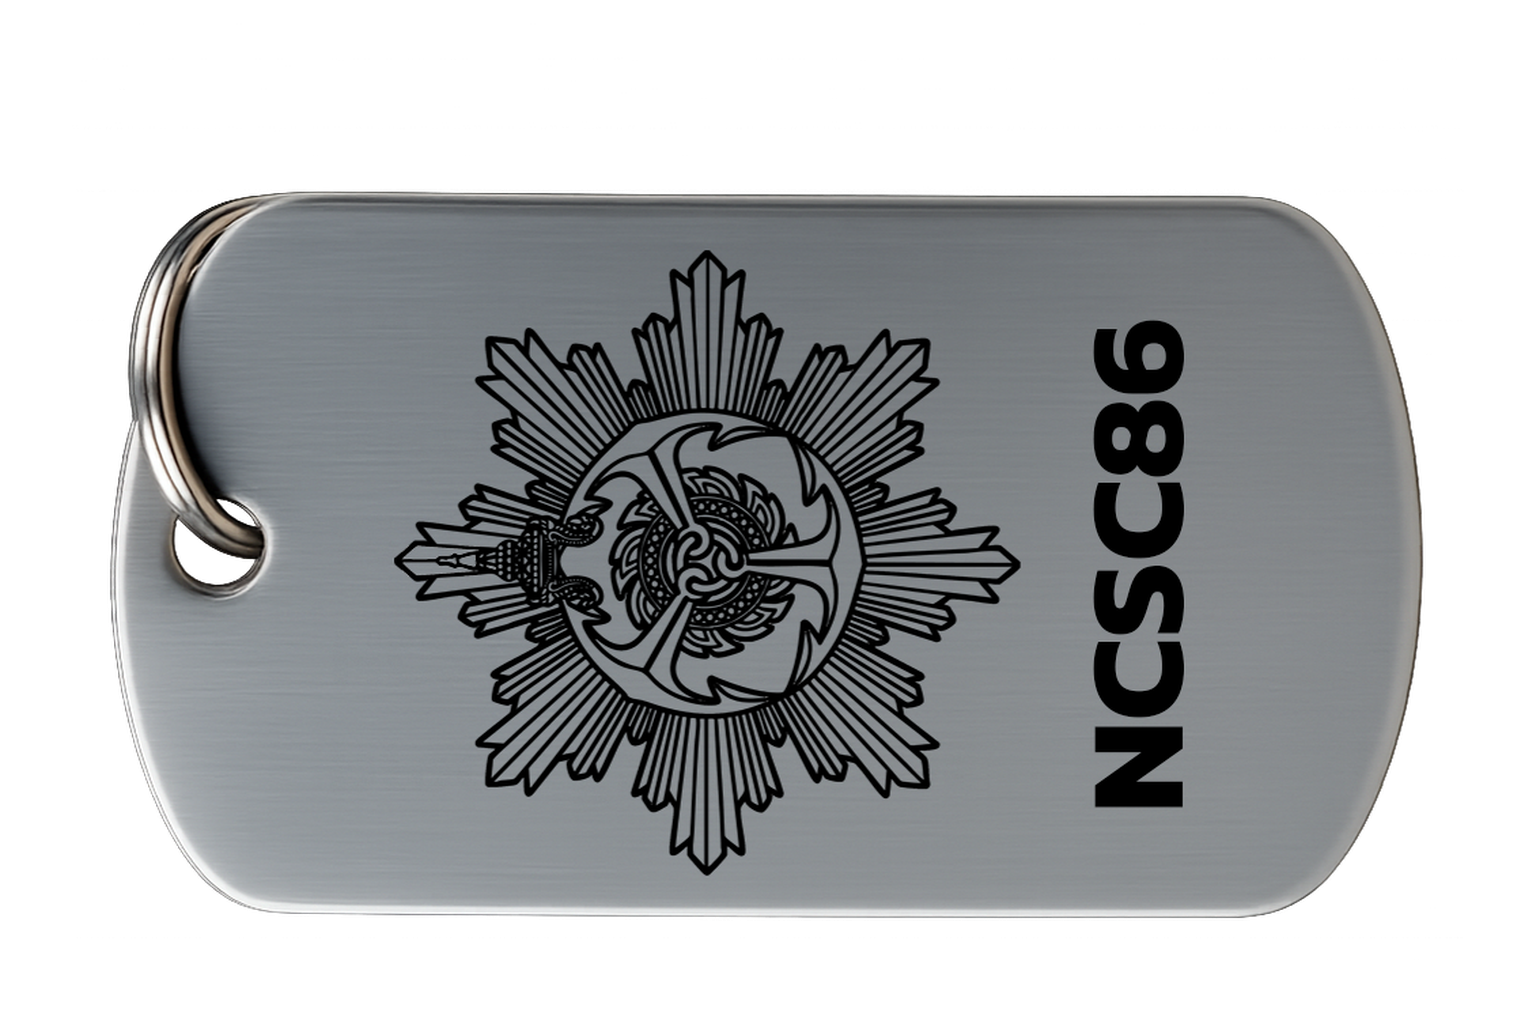
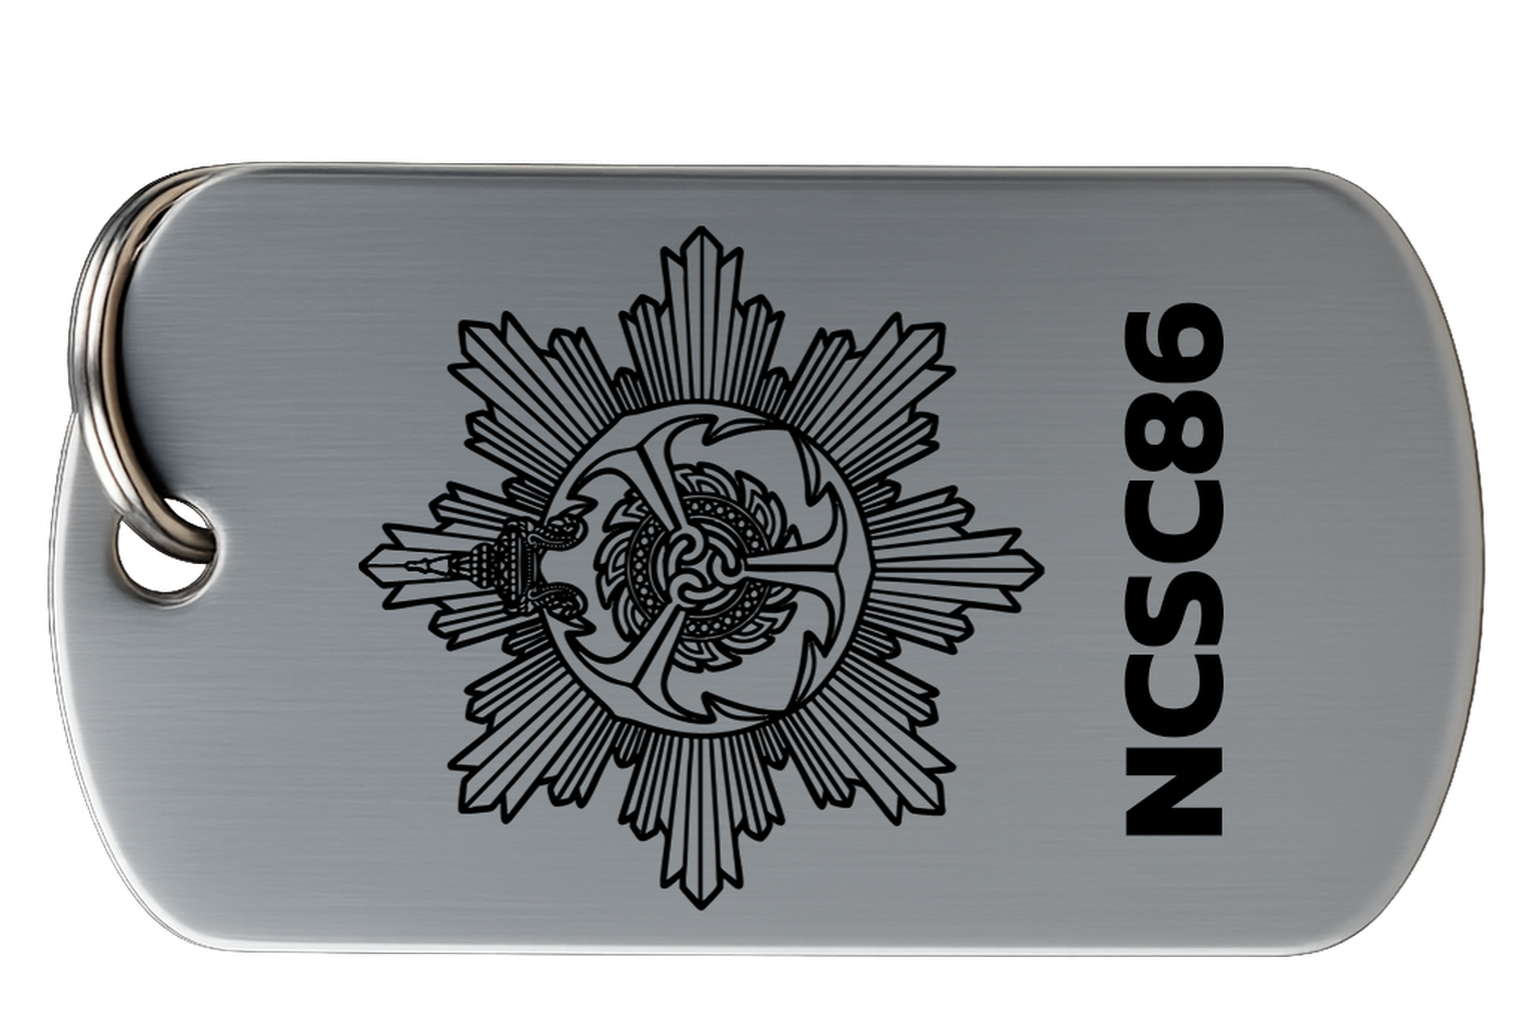
Align saved dog tag previews

Changed region(s): [[0.0312, 0.1562, 0.9688, 0.9375]]

diff --git a/app.js b/app.js
@@ -227,10 +227,10 @@ function drawEngraving(ctx, canvas, data) {
   ];
 
   const x = canvas.width * 0.29;
-  const startY = canvas.height * 0.335;
-  const lineHeight = canvas.height * 0.086;
+  const startY = canvas.height * 0.295;
+  const lineHeight = canvas.height * 0.092;
   const maxWidth = canvas.width * 0.62;
-  const baseSize = Math.round(canvas.height * 0.064);
+  const baseSize = Math.round(canvas.height * 0.083);
 
   ctx.fillStyle = "#020202";
   ctx.textBaseline = "middle";
@@ -509,11 +509,11 @@ async function openSavedOrder(order) {
     backImage: order.backImage || order.backUrl || localImages?.backImage,
   };
 
-  if (!completeOrder.frontImage || !completeOrder.backImage) {
-    if (completeOrder.rankName && completeOrder.surname && completeOrder.serviceNumber && completeOrder.ncscNumber) {
-      completeOrder.frontImage = await renderDogTag("front", completeOrder);
-      completeOrder.backImage = await renderDogTag("back", completeOrder);
-    } else if (GOOGLE_SCRIPT_URL && completeOrder.secretCode) {
+  if (completeOrder.rankName && completeOrder.surname && completeOrder.serviceNumber && completeOrder.ncscNumber) {
+    completeOrder.frontImage = await renderDogTag("front", completeOrder);
+    completeOrder.backImage = await renderDogTag("back", completeOrder);
+  } else if (!completeOrder.frontImage || !completeOrder.backImage) {
+    if (GOOGLE_SCRIPT_URL && completeOrder.secretCode) {
       try {
         const remote = await jsonpRequest({ code: completeOrder.secretCode });
         if (remote.ok && remote.frontUrl && remote.backUrl) {

diff --git a/public/app.js b/public/app.js
@@ -227,10 +227,10 @@ function drawEngraving(ctx, canvas, data) {
   ];
 
   const x = canvas.width * 0.29;
-  const startY = canvas.height * 0.335;
-  const lineHeight = canvas.height * 0.086;
+  const startY = canvas.height * 0.295;
+  const lineHeight = canvas.height * 0.092;
   const maxWidth = canvas.width * 0.62;
-  const baseSize = Math.round(canvas.height * 0.064);
+  const baseSize = Math.round(canvas.height * 0.083);
 
   ctx.fillStyle = "#020202";
   ctx.textBaseline = "middle";
@@ -509,11 +509,11 @@ async function openSavedOrder(order) {
     backImage: order.backImage || order.backUrl || localImages?.backImage,
   };
 
-  if (!completeOrder.frontImage || !completeOrder.backImage) {
-    if (completeOrder.rankName && completeOrder.surname && completeOrder.serviceNumber && completeOrder.ncscNumber) {
-      completeOrder.frontImage = await renderDogTag("front", completeOrder);
-      completeOrder.backImage = await renderDogTag("back", completeOrder);
-    } else if (GOOGLE_SCRIPT_URL && completeOrder.secretCode) {
+  if (completeOrder.rankName && completeOrder.surname && completeOrder.serviceNumber && completeOrder.ncscNumber) {
+    completeOrder.frontImage = await renderDogTag("front", completeOrder);
+    completeOrder.backImage = await renderDogTag("back", completeOrder);
+  } else if (!completeOrder.frontImage || !completeOrder.backImage) {
+    if (GOOGLE_SCRIPT_URL && completeOrder.secretCode) {
       try {
         const remote = await jsonpRequest({ code: completeOrder.secretCode });
         if (remote.ok && remote.frontUrl && remote.backUrl) {

diff --git a/app/globals.css b/app/globals.css
@@ -368,7 +368,7 @@ button svg {
 .engrave-preview {
   position: absolute;
   left: 29%;
-  top: 28.5%;
+  top: 25.8%;
   width: 58%;
   display: grid;
   gap: 2.4%;
@@ -455,7 +455,7 @@ td {
 }
 
 dialog {
-  width: min(1000px, calc(100% - 28px));
+  width: min(1120px, calc(100% - 28px));
   border: 1px solid var(--line);
   border-radius: 8px;
   color: var(--ink);
@@ -485,15 +485,19 @@ dialog::backdrop {
 .dialog-images a {
   display: grid;
   place-items: center;
-  min-height: 300px;
+  min-height: 0;
+  aspect-ratio: 3 / 2;
+  overflow: hidden;
   border: 1px solid var(--line);
   border-radius: 6px;
   background: #070807;
 }
 
 .dialog-images img {
-  max-width: 100%;
-  max-height: 70vh;
+  display: block;
+  width: 100%;
+  height: 100%;
+  object-fit: contain;
 }
 
 @media (max-width: 980px) {

diff --git a/styles.css b/styles.css
@@ -368,7 +368,7 @@ button svg {
 .engrave-preview {
   position: absolute;
   left: 29%;
-  top: 28.5%;
+  top: 25.8%;
   width: 58%;
   display: grid;
   gap: 2.4%;
@@ -455,7 +455,7 @@ td {
 }
 
 dialog {
-  width: min(1000px, calc(100% - 28px));
+  width: min(1120px, calc(100% - 28px));
   border: 1px solid var(--line);
   border-radius: 8px;
   color: var(--ink);
@@ -485,15 +485,19 @@ dialog::backdrop {
 .dialog-images a {
   display: grid;
   place-items: center;
-  min-height: 300px;
+  min-height: 0;
+  aspect-ratio: 3 / 2;
+  overflow: hidden;
   border: 1px solid var(--line);
   border-radius: 6px;
   background: #070807;
 }
 
 .dialog-images img {
-  max-width: 100%;
-  max-height: 70vh;
+  display: block;
+  width: 100%;
+  height: 100%;
+  object-fit: contain;
 }
 
 @media (max-width: 980px) {